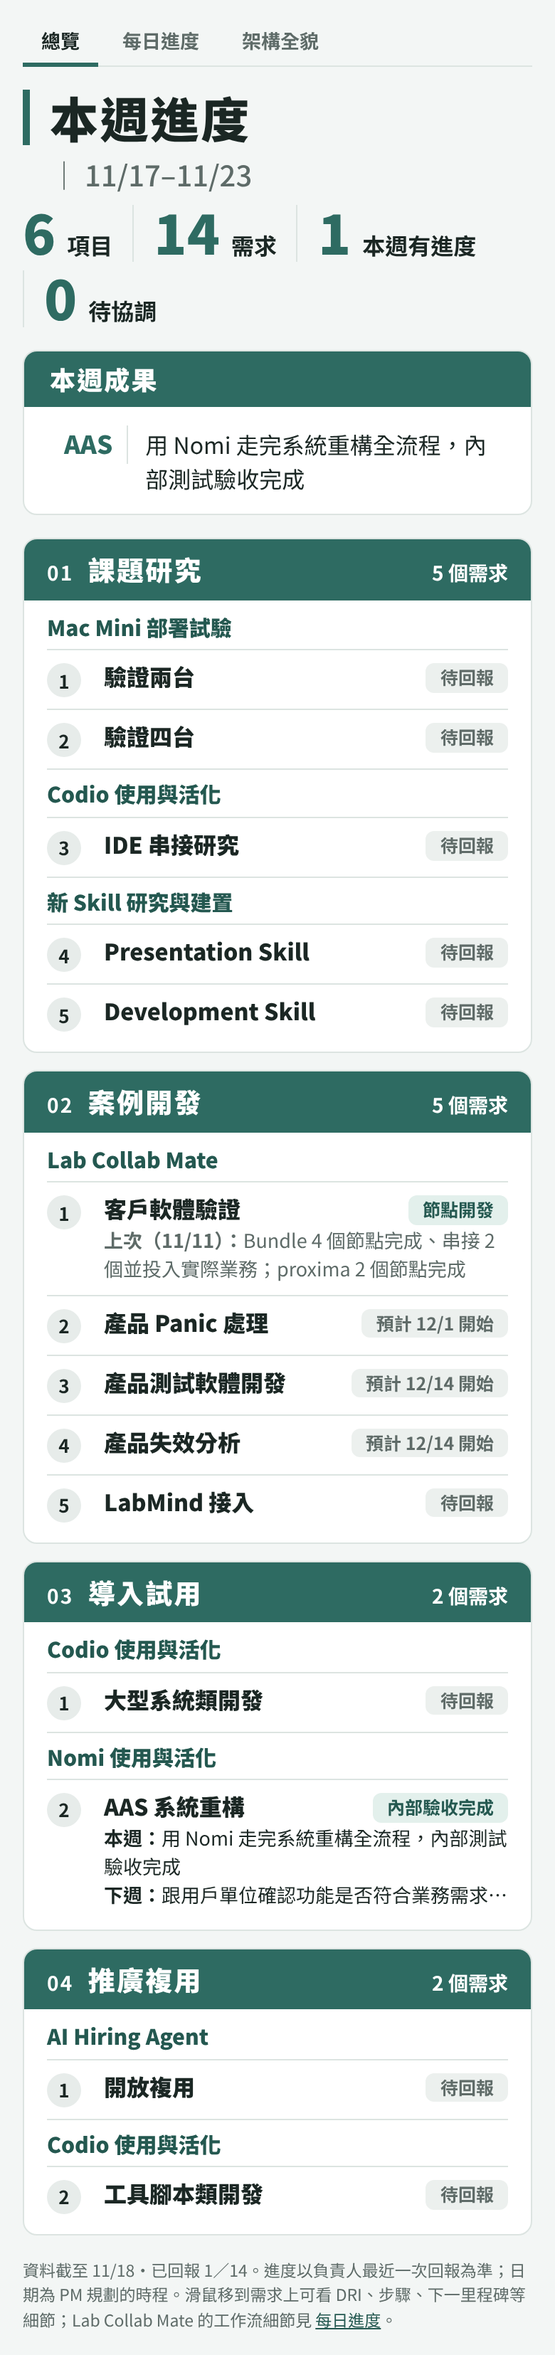
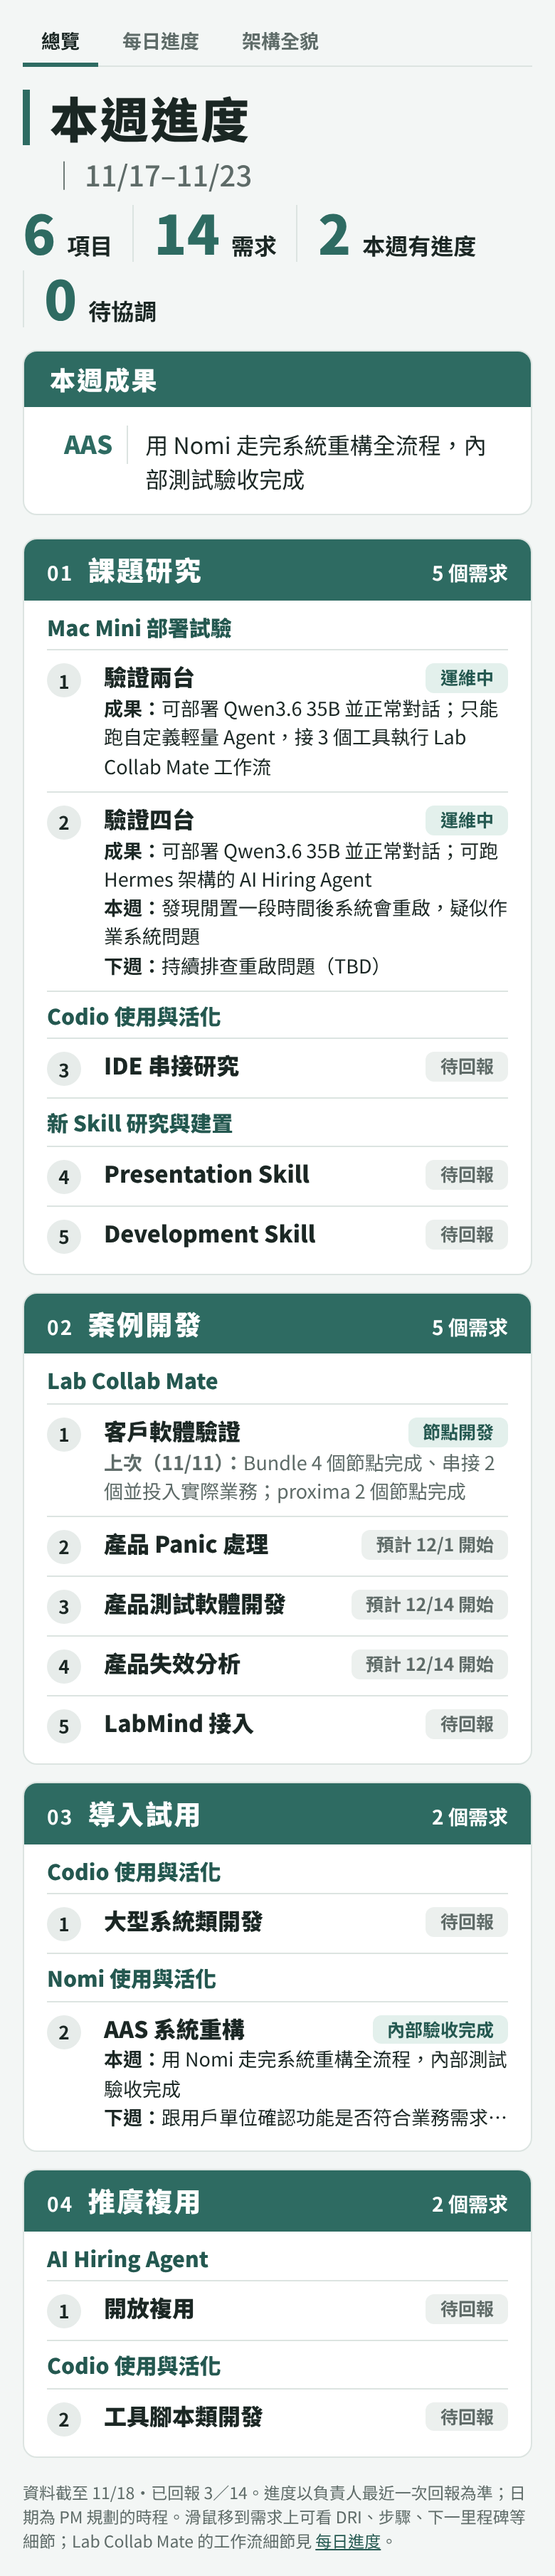
[2026-11-17_overview-redesign] Mac Mini 對齊結論寫入摘要與總覽頁：兩台四台運維中、四台重啟排查、DRI 萬鋒
Claude-Session: https://claude.ai/code/session_01Cd6Gft6mTX8zcMZinAmXya

diff --git a/work/2026-11-17_overview-redesign/inputs/SUMMARY_MacMini-本地AI研究簡報.md b/work/2026-11-17_overview-redesign/inputs/SUMMARY_MacMini-本地AI研究簡報.md
@@ -1,7 +1,7 @@
 # 摘要：Mac Mini 本地 AI 研究（模型部署試驗）
 
 > 來源：使用者 2026-11-18 提供的內部簡報（15 頁，pptx）＋使用者口述（已與課長確認）。依專案規則，repo 只存文字摘要，不放原檔。
-> 狀態：**理解待與使用者對齊**。
+> 狀態：已與使用者對齊（2026-11-18，以互動表單確認），最後確認中。
 
 ## 簡報重點
 
@@ -23,3 +23,13 @@
 - 兩台、四台都**確認可以部署、已部署完成**（Qwen3.6 35B A3B），可以正常對話運行。現在是**部署後的運維階段**：有 bug 且影響運行中的項目就 debug。
 - **四台**：可跑 **Hermes 架構**（AI Hiring Agent 項目），但模型運行時上下文記憶體佔比高：只跑模型單機 13G，跑該項目單機 26G。**問題：一段時間沒有動作，系統會重啟**，懷疑是作業系統問題，排查需要一段時間。
 - **兩台**：只能跑**自定義的輕量版 Agent 架構**；目前接了 **3 個工具自動執行工作流**，能跑動。
+
+## 與使用者對齊後的結論（2026-11-18）
+
+- 兩台接 3 個工具執行的工作流，**就是 Lab Collab Mate 的工作流**（簡報第 13 頁「Lab 智能協作夥伴」）。
+- 四台跑 AI Hiring Agent 時**單機 26G，超過實體 24G**（會用到 Swap）；這點只放在總覽頁滑鼠提示，不寫成重啟原因（尚未確認）。
+- 兩台、四台狀態：**已有結論、進入運維**（狀態標籤「運維中」）。
+- 四台重啟問題：寫在本週／下週（本週：發現閒置一段時間後系統會重啟，疑似作業系統問題；下週：持續排查，TBD），**不列入「請副總協助」**。
+- 兩台：只寫結論，不寫本週／下週。
+- 本週成果：**不放** Mac Mini。
+- DRI：**萬鋒**。
